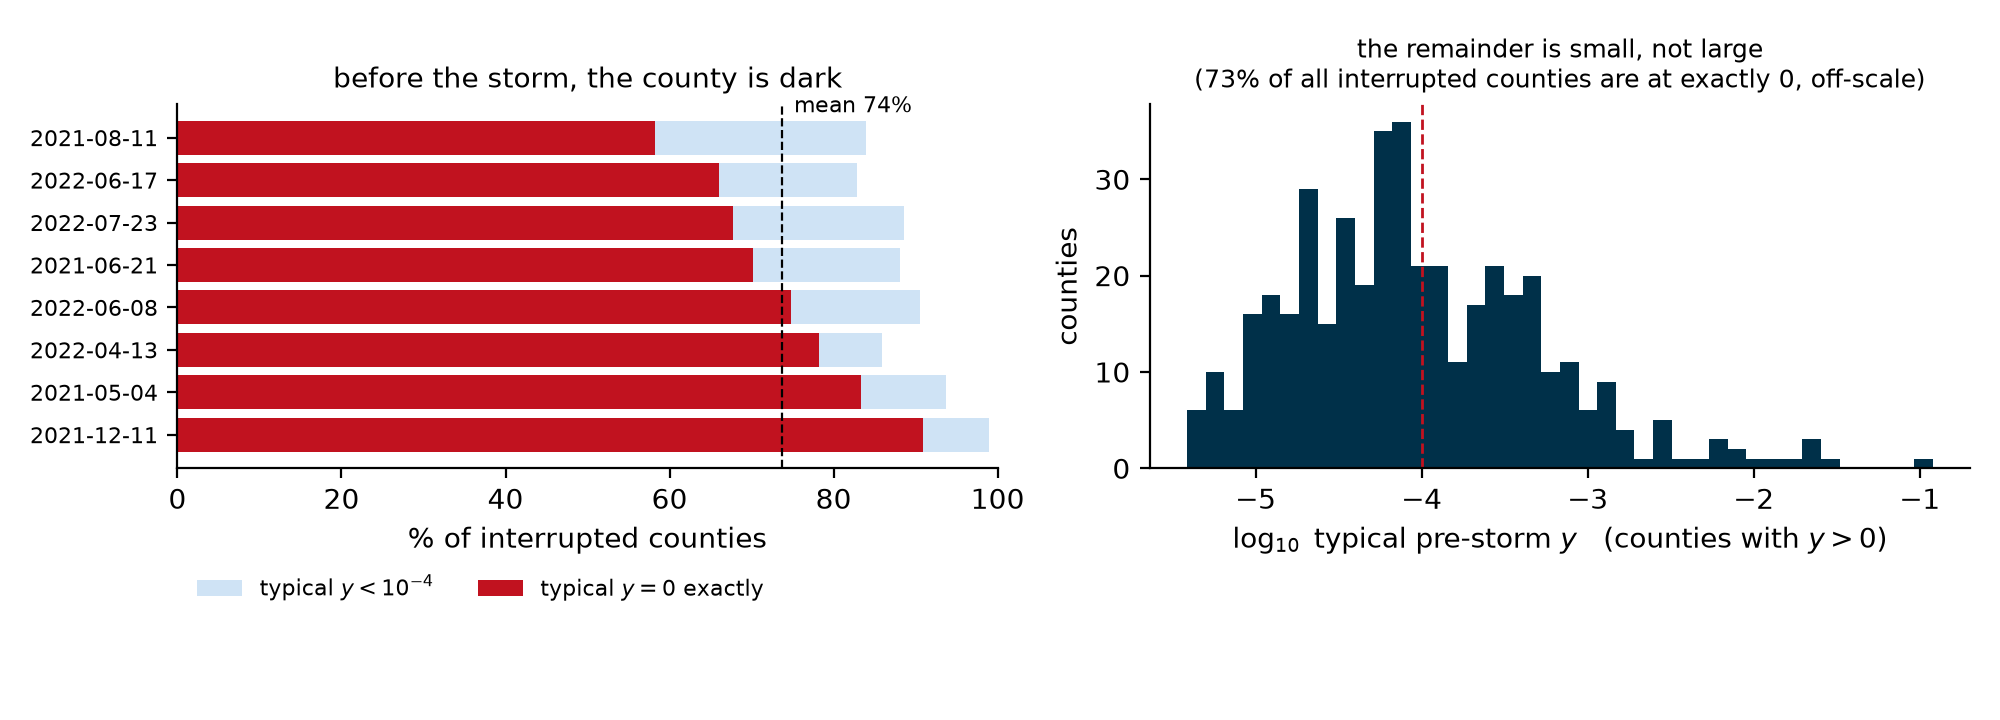
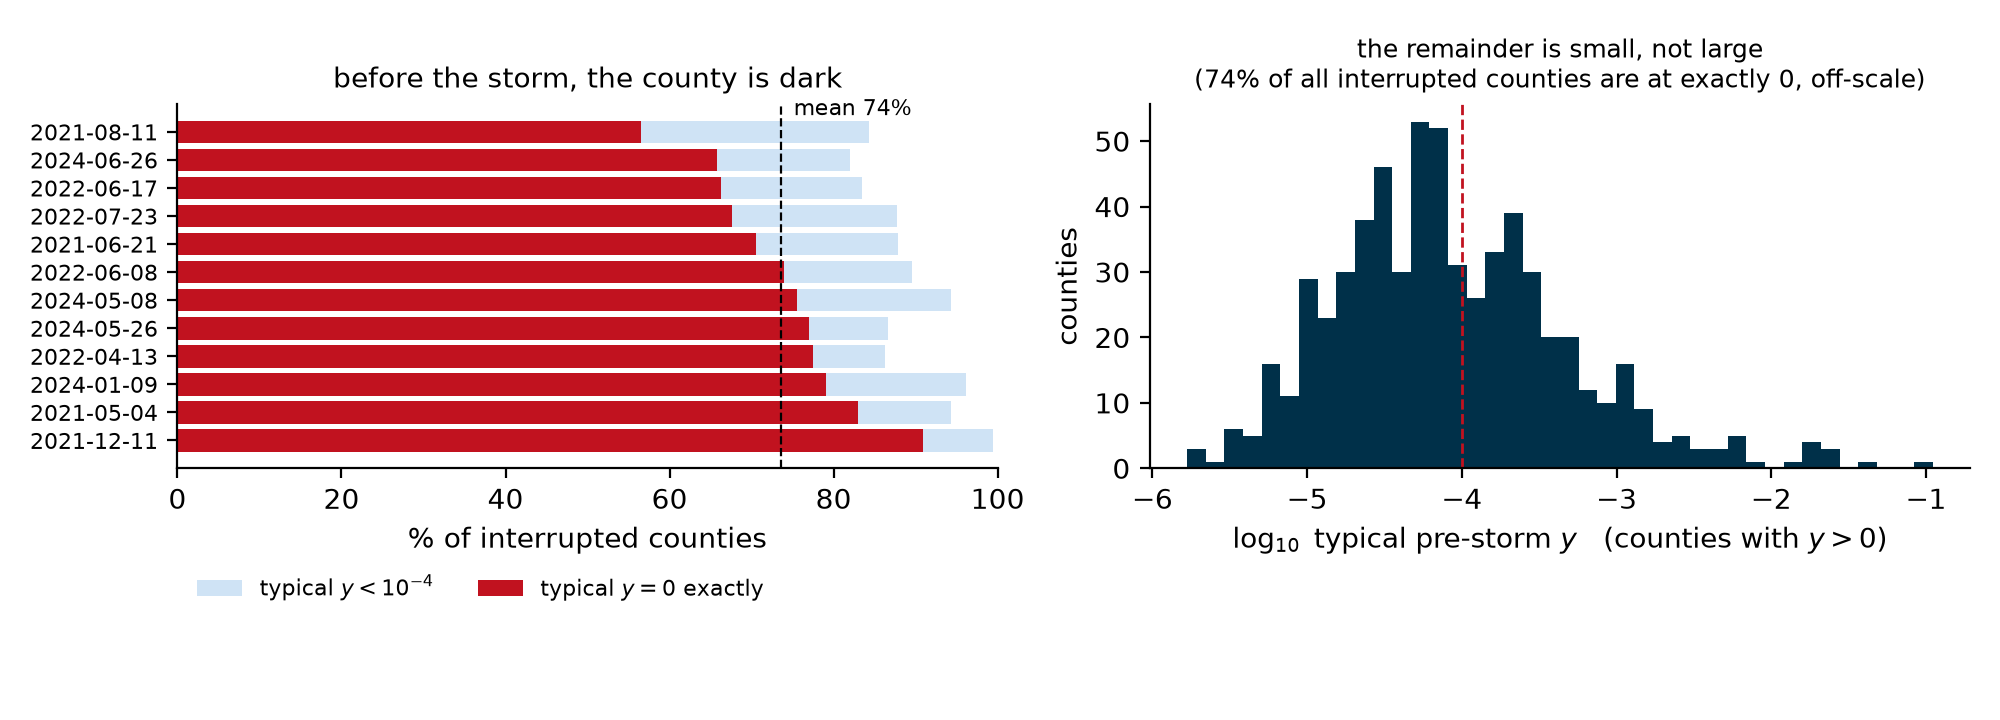
fig05: title names the actual winner beyond 1 h (gradient boosting), not the per-horizon two-rate series; fig03 re-rendered by the current script

diff --git a/scripts/make_figures.py b/scripts/make_figures.py
@@ -194,7 +194,7 @@ def fig_per_horizon():
         ax.bar(np.arange(4) + (i - 1.5) * w, vals, w, color=col, label=lab)
     ax.axhline(0, color="k", lw=0.6); ax.set_xticks(range(4)); ax.set_xticklabels([f"h+{h}" for h in H])
     ax.set_ylabel("paired Δ RMSE vs two-rate model (%)\nnegative = comparator better")
-    ax.set_title("Convective study: the two-rate model wins at 1 h and loses to a per-horizon regressor beyond", fontsize=10)
+    ax.set_title("Convective study: the two-rate model beats gradient boosting at 1 h and loses to it from 6 h on", fontsize=10)
     ax.legend(frameon=False, fontsize=8); ax.spines[["top", "right"]].set_visible(False)
     fig.tight_layout(); fig.savefig(FIG / "fig05_per_horizon.png", dpi=200); print("figures/fig05_per_horizon.png")
 
